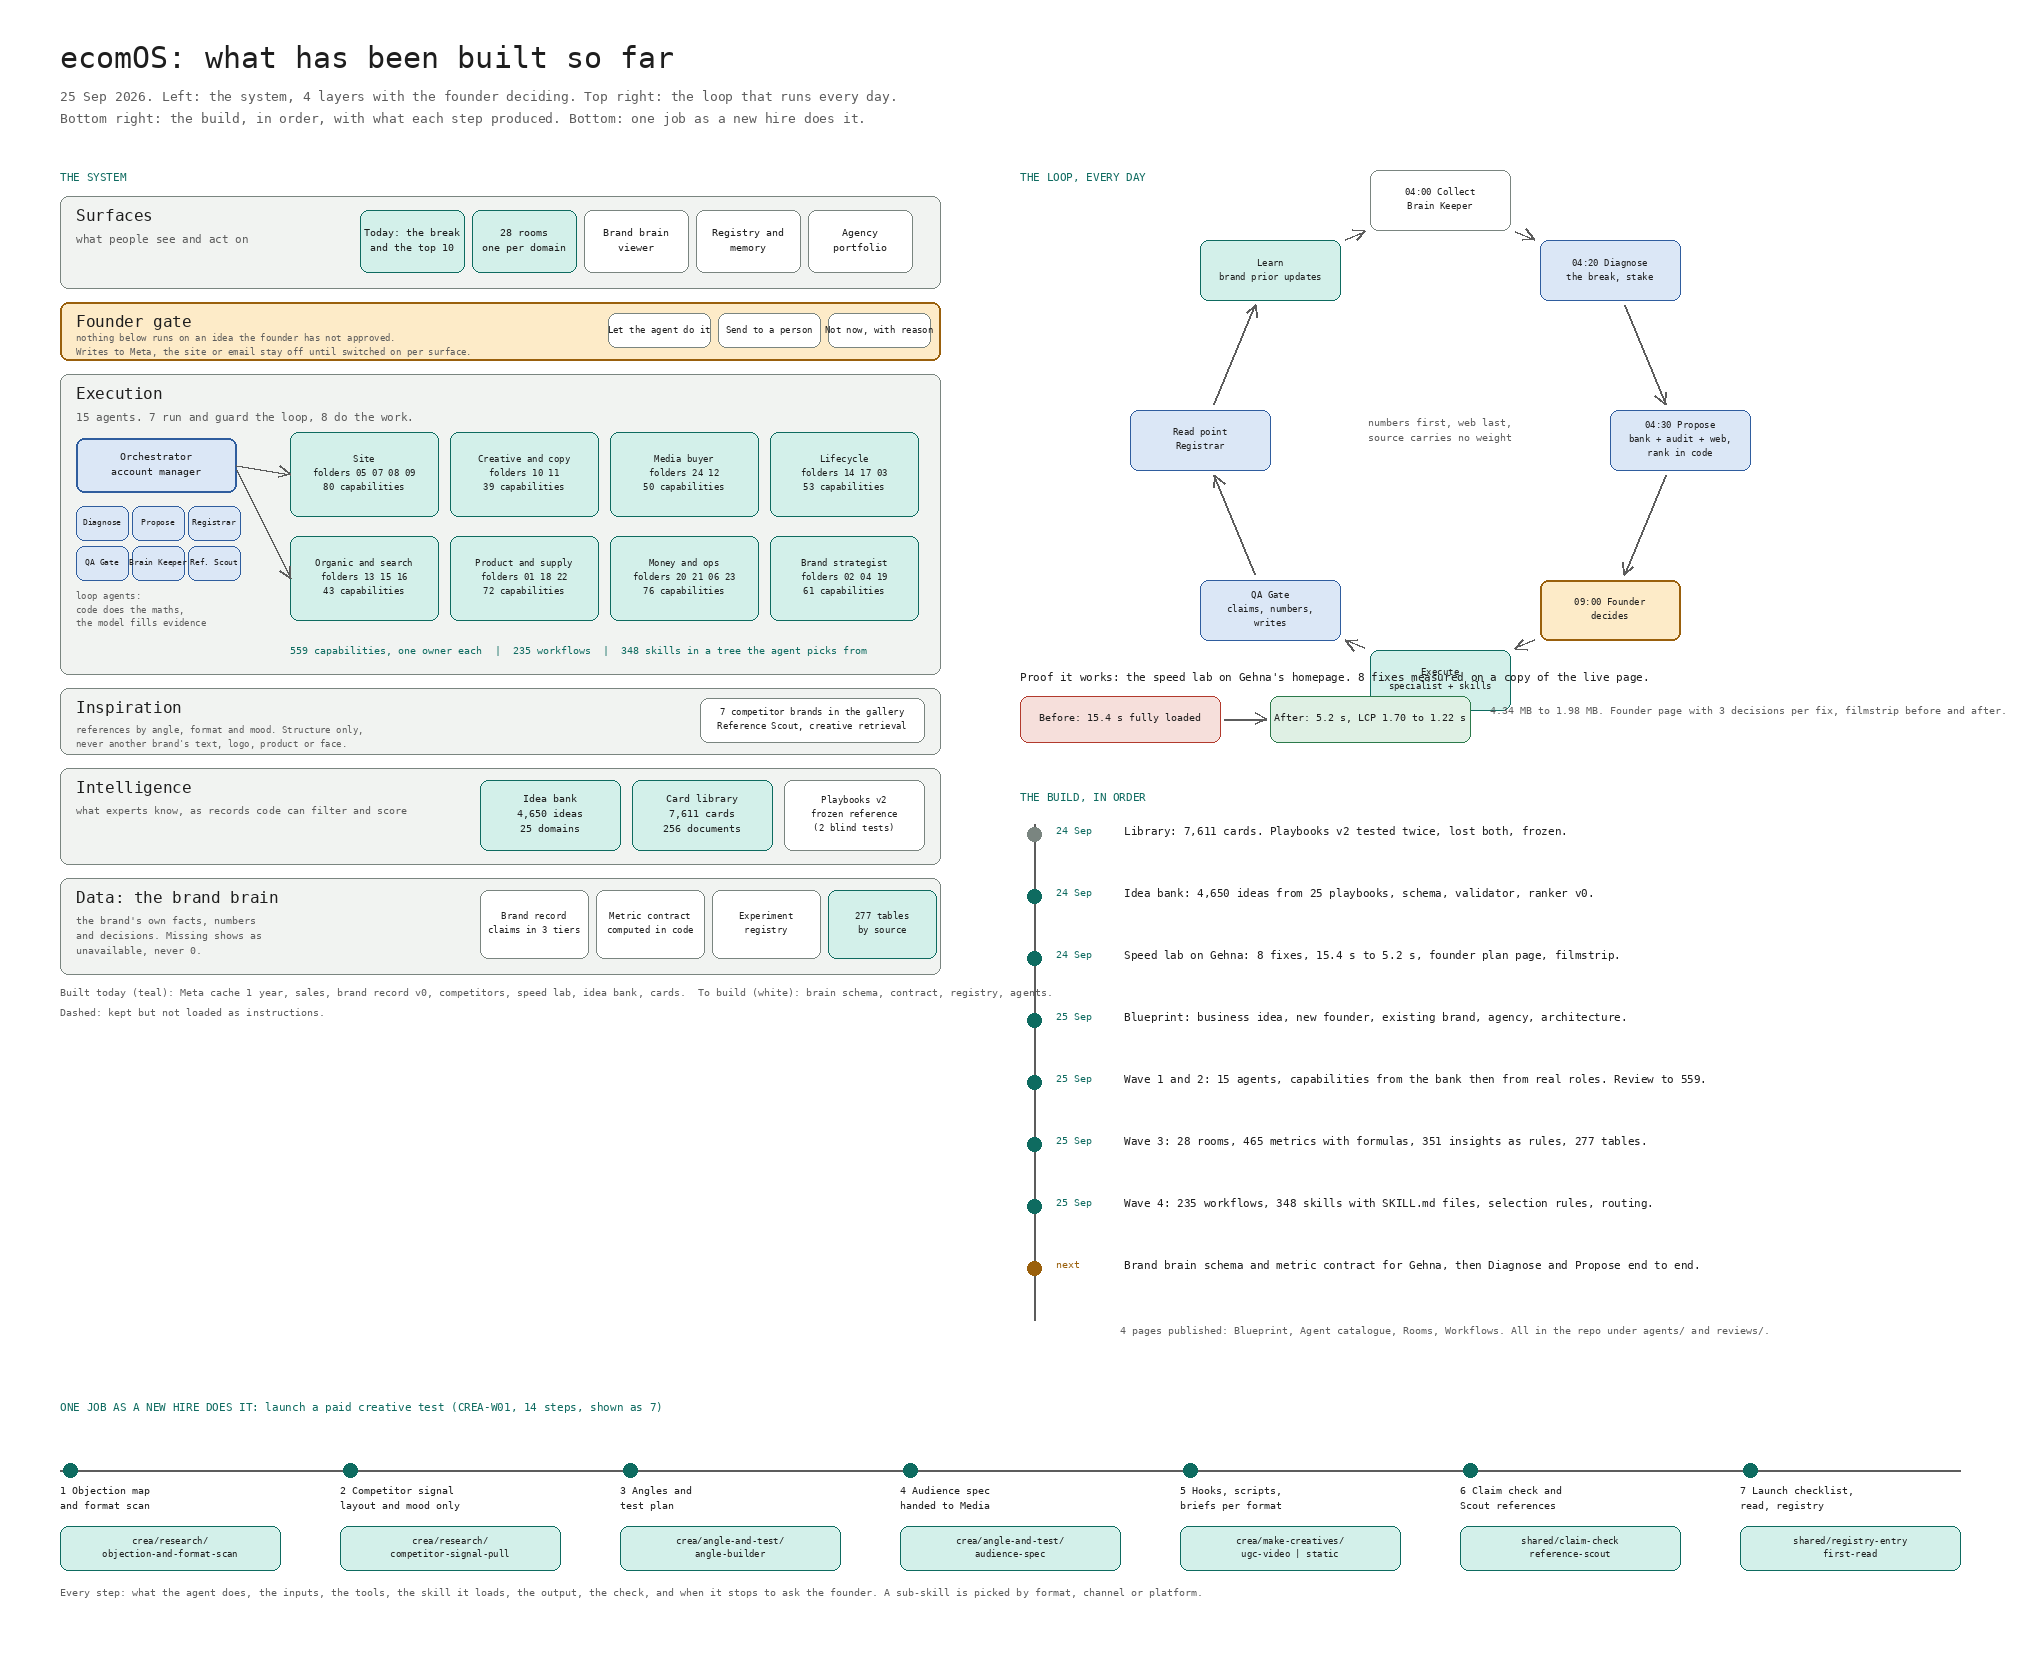
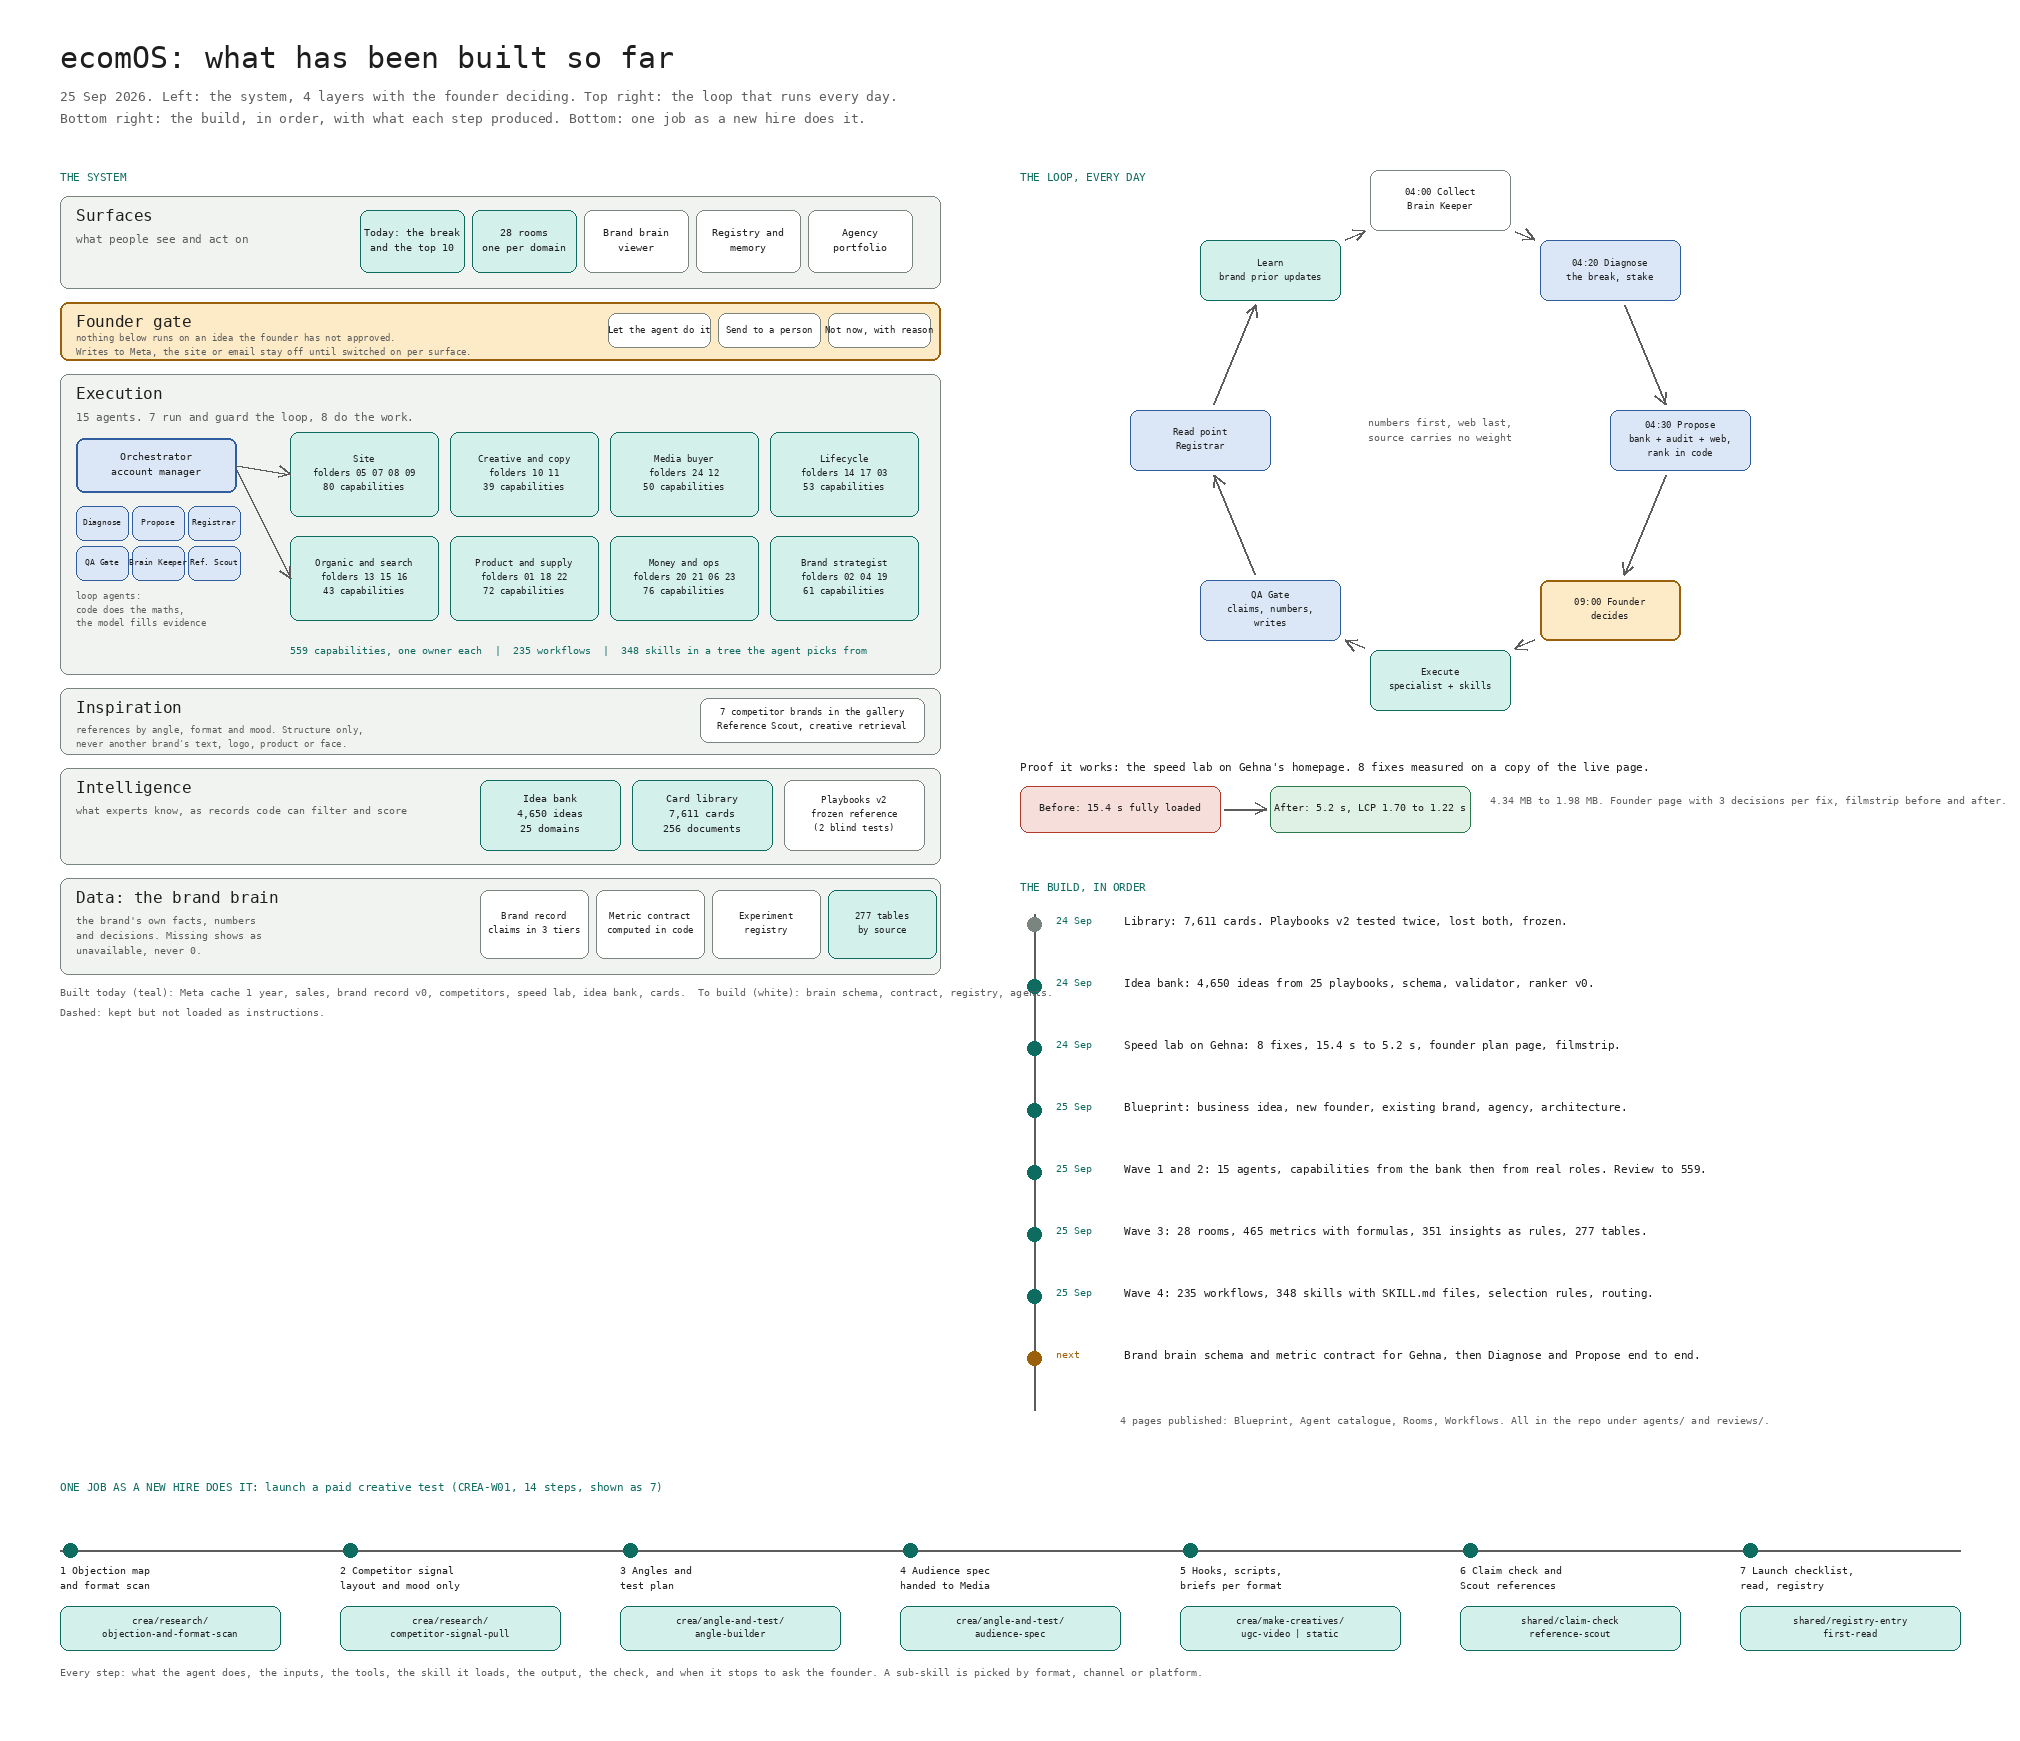
Overview diagram: space the loop, proof strip and timeline
Claude-Session: https://claude.ai/code/session_01V8ofg7iS7oZQr9WiLWqfqq

diff --git a/scripts/build_overview_excalidraw.py b/scripts/build_overview_excalidraw.py
@@ -154,14 +154,14 @@ for i in range(len(steps)):
     t = min(70 / abs(ux) if ux else 1e9, 30 / abs(uy) if uy else 1e9) + 6
     arrow(ax + ux * t, ay + uy * t, bx_ - ux * t, by_ - uy * t, MUTED, 2, start=a, end=b)
 text(cx - 110, cy - 24, "numbers first, web last,\nsource carries no weight", 12, MUTED, align="center", w=220)
-text(BX, BY + 500, "Proof it works: the speed lab on Gehna's homepage. 8 fixes measured on a copy of the live page.", 13)
-rect(BX, BY + 526, 200, 46, ROSE, "Before: 15.4 s fully loaded", 12, sw=1)
-arrow(BX + 204, BY + 549, BX + 246, BY + 549, MUTED, 2)
-rect(BX + 250, BY + 526, 200, 46, GREEN, "After: 5.2 s, LCP 1.70 to 1.22 s", 12, sw=1)
-text(BX + 470, BY + 534, "4.34 MB to 1.98 MB. Founder page with 3 decisions per fix, filmstrip before and after.", 12, MUTED, w=380)
+text(BX, BY + 590, "Proof it works: the speed lab on Gehna's homepage. 8 fixes measured on a copy of the live page.", 13)
+rect(BX, BY + 616, 200, 46, ROSE, "Before: 15.4 s fully loaded", 12, sw=1)
+arrow(BX + 204, BY + 639, BX + 246, BY + 639, MUTED, 2)
+rect(BX + 250, BY + 616, 200, 46, GREEN, "After: 5.2 s, LCP 1.70 to 1.22 s", 12, sw=1)
+text(BX + 470, BY + 624, "4.34 MB to 1.98 MB. Founder page with 3 decisions per fix, filmstrip before and after.", 12, MUTED, w=380)
 
 # ---------------- Section C: the build timeline (bottom right) ----------------
-CX, CY = 1020, 790
+CX, CY = 1020, 880
 text(CX, CY, "THE BUILD, IN ORDER", 13, "#0e6b60")
 tl_x = CX + 14
 line(tl_x, CY + 34, tl_x, CY + 34 + 8 * 62, MUTED, 2)
@@ -183,7 +183,7 @@ for i, (when, what, fill) in enumerate(events):
 text(CX + 100, CY + 34 + 8 * 62 + 4, "4 pages published: Blueprint, Agent catalogue, Rooms, Workflows. All in the repo under agents/ and reviews/.", 12, MUTED, w=740)
 
 # ---------------- Section D: one job end to end (bottom) ----------------
-DX, DY = 60, 1400
+DX, DY = 60, 1480
 text(DX, DY, "ONE JOB AS A NEW HIRE DOES IT: launch a paid creative test (CREA-W01, 14 steps, shown as 7)", 13, "#0e6b60")
 job = [("1 Objection map\nand format scan", "crea/research/\nobjection-and-format-scan"), ("2 Competitor signal\nlayout and mood only", "crea/research/\ncompetitor-signal-pull"), ("3 Angles and\ntest plan", "crea/angle-and-test/\nangle-builder"), ("4 Audience spec\nhanded to Media", "crea/angle-and-test/\naudience-spec"), ("5 Hooks, scripts,\nbriefs per format", "crea/make-creatives/\nugc-video | static"), ("6 Claim check and\nScout references", "shared/claim-check\nreference-scout"), ("7 Launch checklist,\nread, registry", "shared/registry-entry\nfirst-read")]
 line(DX, DY + 70, DX + 7 * 280 - 60, DY + 70, MUTED, 2)
